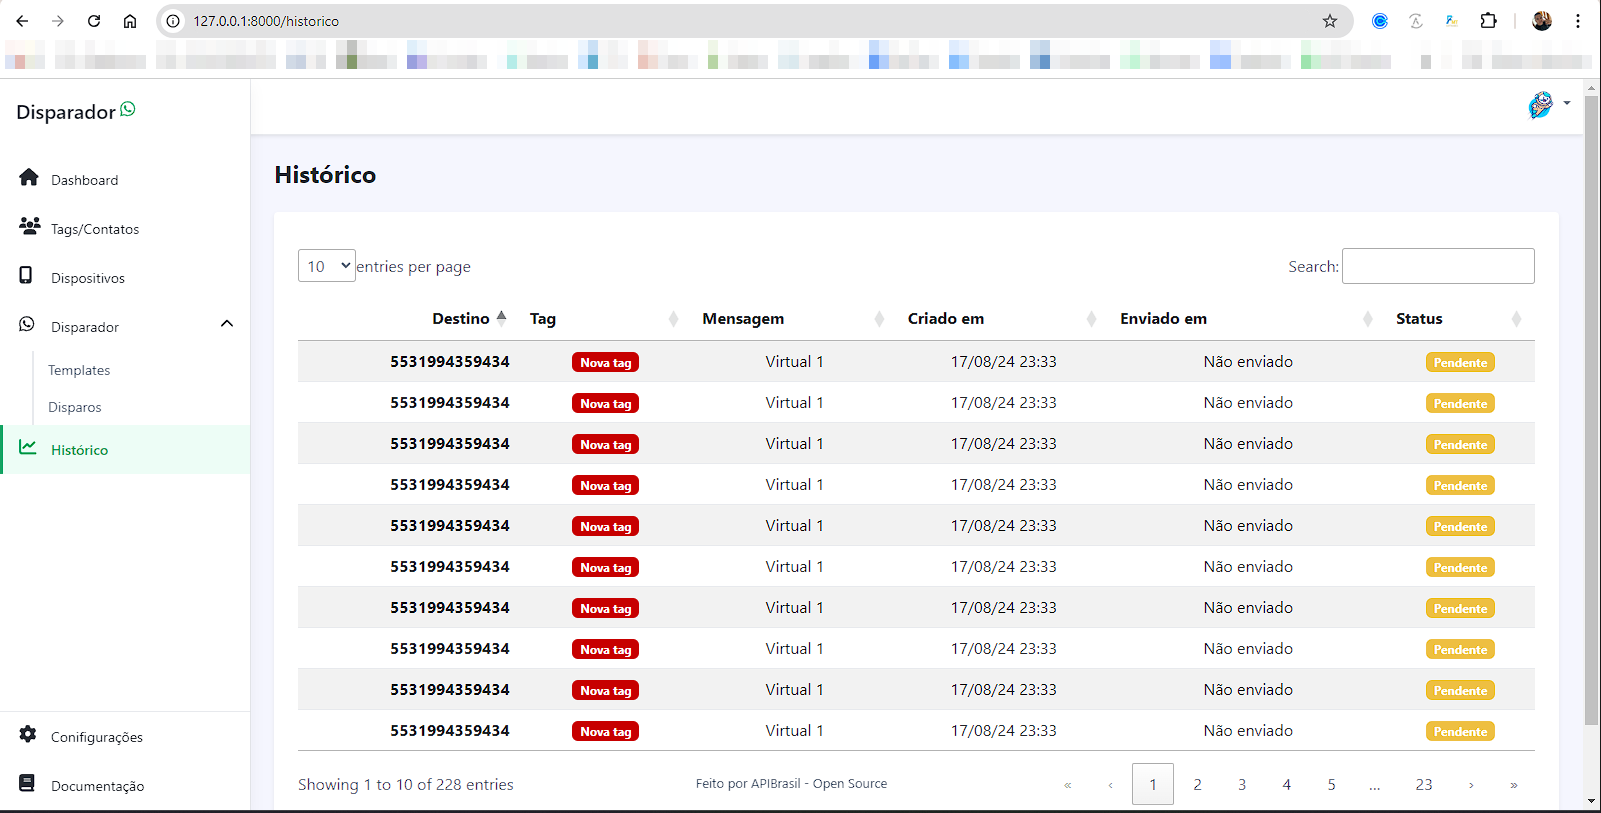
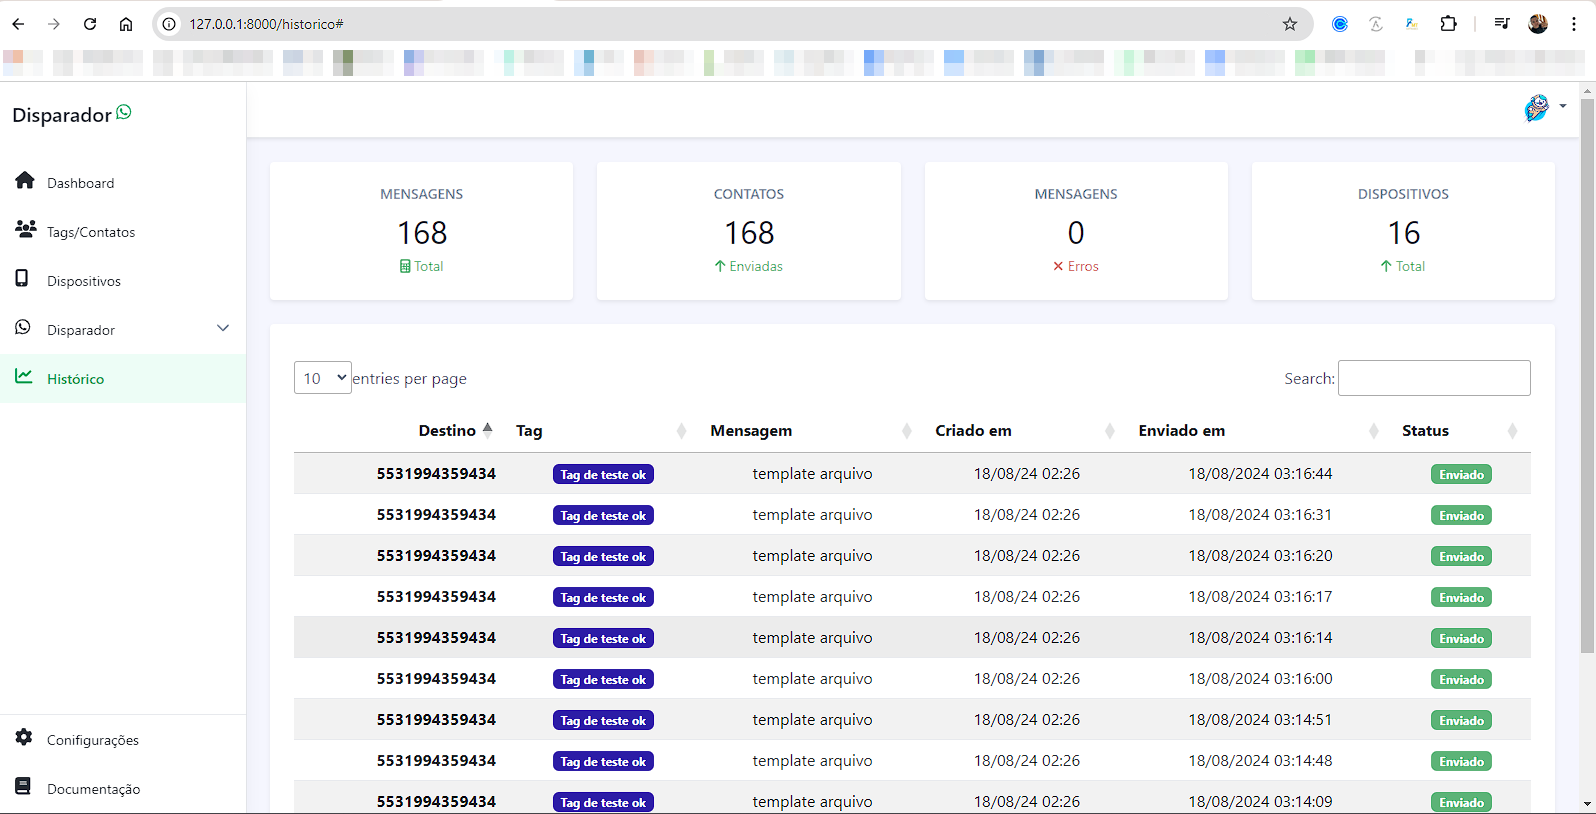
fix: ajust sends and historicos

diff --git a/app/Http/Controllers/Admin/DispositivosController.php b/app/Http/Controllers/Admin/DispositivosController.php
@@ -4,14 +4,12 @@ namespace App\Http\Controllers\Admin;
 
 use App\Models\API;
 use ApiBrasil\Service;
-use GuzzleHttp\Client;
 
 use App\Models\Servidores;
 use App\Models\Dispositivos;
 use Illuminate\Http\Request;
 use App\Http\Controllers\Controller;
 use Illuminate\Support\Facades\Auth;
-use GuzzleHttp\Psr7\Request as RequestGuzzle;
 
 class DispositivosController extends Controller
 {
@@ -44,30 +42,21 @@ class DispositivosController extends Controller
     {
         try {
             
-            $client = new Client(['verify' => false]);
-
             $token = Auth::user()->bearer_token_api_brasil;
 
-            $headers = [
-                'Content-Type' => 'application/json',
-                'SecretKey' => $request->secretkey,
-                'Authorization' => "Bearer $token"
-            ];
-
-            $body = json_encode([
-                'type' => 'cellphone',
-                'device_name' => $request->device_name,
-                'device_key' => $request->device_key,
-                'device_ip' => $request->device_ip,
-                'server_search' => $request->server_search
-            ]); 
-
-            $request = new RequestGuzzle('POST', env("API_URL").'/v2/devices/store', $headers, $body);
-            $res = $client->sendAsync($request)->wait();
-
-            $response = json_decode($res->getBody()->getContents());
-
-            return response()->json($response);
+            $store = Service::Device("store", [
+                "Bearer" => $token,
+                "SecretKey" => $request->secretkey,
+                "body" => [
+                    'type' => $request->type,
+                    'device_name' => $request->device_name,
+                    'device_key' => $request->device_key,
+                    'device_ip' => $request->device_ip,
+                    'server_search' => $request->server_search
+                ]
+            ]);
+            
+            return response()->json($store);
 
         } catch (\GuzzleHttp\Exception\RequestException $e) {
 
@@ -113,33 +102,21 @@ class DispositivosController extends Controller
     {
         try {
             
-            $client = new Client(['verify' => false]);
-
             $token = Auth::user()->bearer_token_api_brasil;
 
-            $headers = [
-                'Content-Type' => 'application/json',
-                'SecretKey' => $request->secretkey,
-                'Authorization' => "Bearer $token"
-            ];
-
-            $body = json_encode([
-                'search' => $id,
-                'server_search' => $request->server_search,
-                'type' => 'cellphone',
-
-                'device_name' => $request->device_name,
-                'device_key' => $request->device_key,
-                'device_ip' => $request->device_ip
-
-            ]); 
-
-            $request = new RequestGuzzle('POST', env("API_URL").'/v2/devices/search', $headers, $body);
-            $res = $client->sendAsync($request)->wait();
-
-            $response = json_decode($res->getBody()->getContents());
-
-            return response()->json($response);
+            $update  = Service::Device("store", [
+                "Bearer" => $token,
+                "SecretKey" => $request->secretkey,
+                "body" => [
+                    'type' => $request->type,
+                    'device_name' => $request->device_name,
+                    'device_key' => $request->device_key,
+                    'device_ip' => $request->device_ip,
+                    'server_search' => $request->server_search
+                ]
+            ]);
+            
+            return response()->json($update);
 
         } catch (\GuzzleHttp\Exception\RequestException $e) {
 

diff --git a/resources/views/admin/historico.blade.php b/resources/views/admin/historico.blade.php
@@ -3,10 +3,69 @@
 @section('title', 'Histórico')
 
 @section('content')
-    <h1 class="app-page-title">Histórico</h1>
+    {{-- <h1 class="app-page-title">Histórico</h1> --}}
 
     <div class="row g-4 mb-4">
         <div class="col-12 col-lg-12">
+
+            <div class="row">
+
+                <div class="col-6 col-lg-3">
+                    <div class="app-card app-card-stat shadow-sm h-100">
+                        <div class="app-card-body p-3 p-lg-4">
+                            <h4 class="stats-type mb-1">Mensagens</h4>
+                            <div class="stats-figure">{{ isset($mensagens) ? count($mensagens) : 0 }}</div>
+                            <div class="stats-meta text-success">
+                                <i class="fas fa-calculator"></i> Total
+                            </div>
+                        </div>
+                        <a class="app-card-link-mask" href="#"></a>
+                    </div>
+                </div>
+                
+                <div class="col-6 col-lg-3">
+                    <div class="app-card app-card-stat shadow-sm h-100">
+                        <div class="app-card-body p-3 p-lg-4">
+                            <h4 class="stats-type mb-1">Contatos</h4>
+                            <div class="stats-figure">{{ isset($mensagensEnviadas) ? count($mensagensEnviadas) : 0 }}</div>
+                            <div class="stats-meta text-success">
+                                <i class="fas fa-arrow-up"></i> Enviadas
+                            </div>
+                            </div>
+                        <a class="app-card-link-mask" href="#"></a>
+                    </div>
+                </div>
+                
+                <div class="col-6 col-lg-3">
+                    <div class="app-card app-card-stat shadow-sm h-100">
+                        <div class="app-card-body p-3 p-lg-4">
+                            <h4 class="stats-type mb-1">Mensagens</h4>
+                            <div class="stats-figure">{{ isset($messagensError) ? count($messagensError) : 0 }}</div>
+                            <div class="stats-meta text-danger">
+                                <i class="fas fa-times"></i> Erros
+                            </div>
+                        </div>
+                        <a class="app-card-link-mask" href="#"></a>
+                    </div>
+                </div>
+                
+                <div class="col-6 col-lg-3">
+                    <div class="app-card app-card-stat shadow-sm h-100">
+                        <div class="app-card-body p-3 p-lg-4">
+                            <h4 class="stats-type mb-1">Dispositivos</h4>
+                            <div class="stats-figure">{{ isset($dispositivos) ? count($dispositivos) : 0 }}</div>
+                            <div class="stats-meta text-success">
+                                <i class="fas fa-arrow-up"></i> Total
+                            </div>
+                        </div>
+                        <a class="app-card-link-mask" href="#"></a>
+                    </div>
+                </div>
+                
+            </div>
+        </div>
+        <div class="col-12 col-lg-12">
+
             <div class="app-card app-card-stat shadow-sm h-100">
                 <div class="app-card-body p-3 p-lg-4">
 

diff --git a/resources/views/admin/dispositivos.blade.php b/resources/views/admin/dispositivos.blade.php
@@ -50,8 +50,9 @@
                                     @case('inChat')
                                     <span class="badge bg-success">{{ $item->status }}</span>
                                     @break
+                                    @case('DISCONNECTED')
                                     @case('close')
-                                    <span class="badge bg-danger">closed</span>
+                                    <span class="badge bg-danger">{{ $item->status }}</span>
                                     @break
                                     @case('browserClose')
                                     <span class="badge bg-danger">browserClose</span>
@@ -71,7 +72,16 @@
 
                             <td>
                                 <a href="#" class="btn btn-sm btn-primary text-white" onclick="getItems('{{ $item->search }}')"><i class="fas fa-edit"></i></a>
-                                <a href="#" class="btn btn-sm btn-primary text-white"><i class="fas fa-qrcode"></i></a>
+                                
+                                @switch($item->status)
+                                    @case('DISCONNECTED')
+                                    @case('close')
+                                    @case('browserClose')
+                                    @case('refused')
+                                    <a href="#" class="btn btn-sm btn-primary text-white"><i class="fas fa-qrcode"></i></a>
+                                    @break
+                                @endswitch
+
                                 <a href="#" class="btn btn-sm btn-danger text-white"><i class="fas fa-trash"></i></a>
                         </tr>
                         @endforeach

diff --git a/app/Http/Controllers/Admin/HistoricoController.php b/app/Http/Controllers/Admin/HistoricoController.php
@@ -3,8 +3,10 @@
 namespace App\Http\Controllers\Admin;
 
 use App\Models\Mensagens;
+use App\Models\Dispositivos;
 use Illuminate\Http\Request;
 use App\Http\Controllers\Controller;
+use Illuminate\Support\Facades\Auth;
 
 class HistoricoController extends Controller
 {
@@ -13,10 +15,28 @@ class HistoricoController extends Controller
      */
     public function index()
     {
-        $mensagens = Mensagens::orderBy('id', 'desc')->get();
+
+        $dispositivos = Dispositivos::getAll();
+
+        $mensagens = Mensagens::orderBy('id', 'desc')
+        ->where('user_id', Auth::id())
+        ->get();
+
+        $mensagensEnviadas = Mensagens::orderBy('id', 'desc')
+        ->where('user_id', Auth::id())
+        ->where('status', 'sent')
+        ->get();
+
+        $messagensError = Mensagens::orderBy('id', 'desc')
+        ->where('user_id', Auth::id())
+        ->where('status', 'error')
+        ->get();
 
         return view('admin.historico')
-        ->with('mensagens', $mensagens);
+        ->with('dispositivos', $dispositivos)
+        ->with('mensagens', $mensagens)
+        ->with('mensagensEnviadas', $mensagensEnviadas)
+        ->with('messagensError', $messagensError);
     }
 
     public function show(string $id)

diff --git a/resources/views/layouts/layout.blade.php b/resources/views/layouts/layout.blade.php
@@ -14,6 +14,7 @@
 
     <!-- meta csrf -->
     <meta name="csrf-token" content="{{ csrf_token() }}">
+    <meta name="bearer_token_api_brasil" content="{{ Auth::user()->bearer_token_api_brasil }}">
     
     <!-- FontAwesome JS-->
     <script defer src="/assets/plugins/fontawesome/js/all.min.js"></script>

diff --git a/app/Console/Commands/SendMessagesCommand.php b/app/Console/Commands/SendMessagesCommand.php
@@ -77,6 +77,7 @@ class SendMessagesCommand extends Command
 
                 if ($qt_disparo >= $random) {
                     echo "Limit of {$random} messages reached, waiting {$sleep} seconds\n";
+                    $qt_disparo = 0;
                     sleep($sleep);
                 }
 
